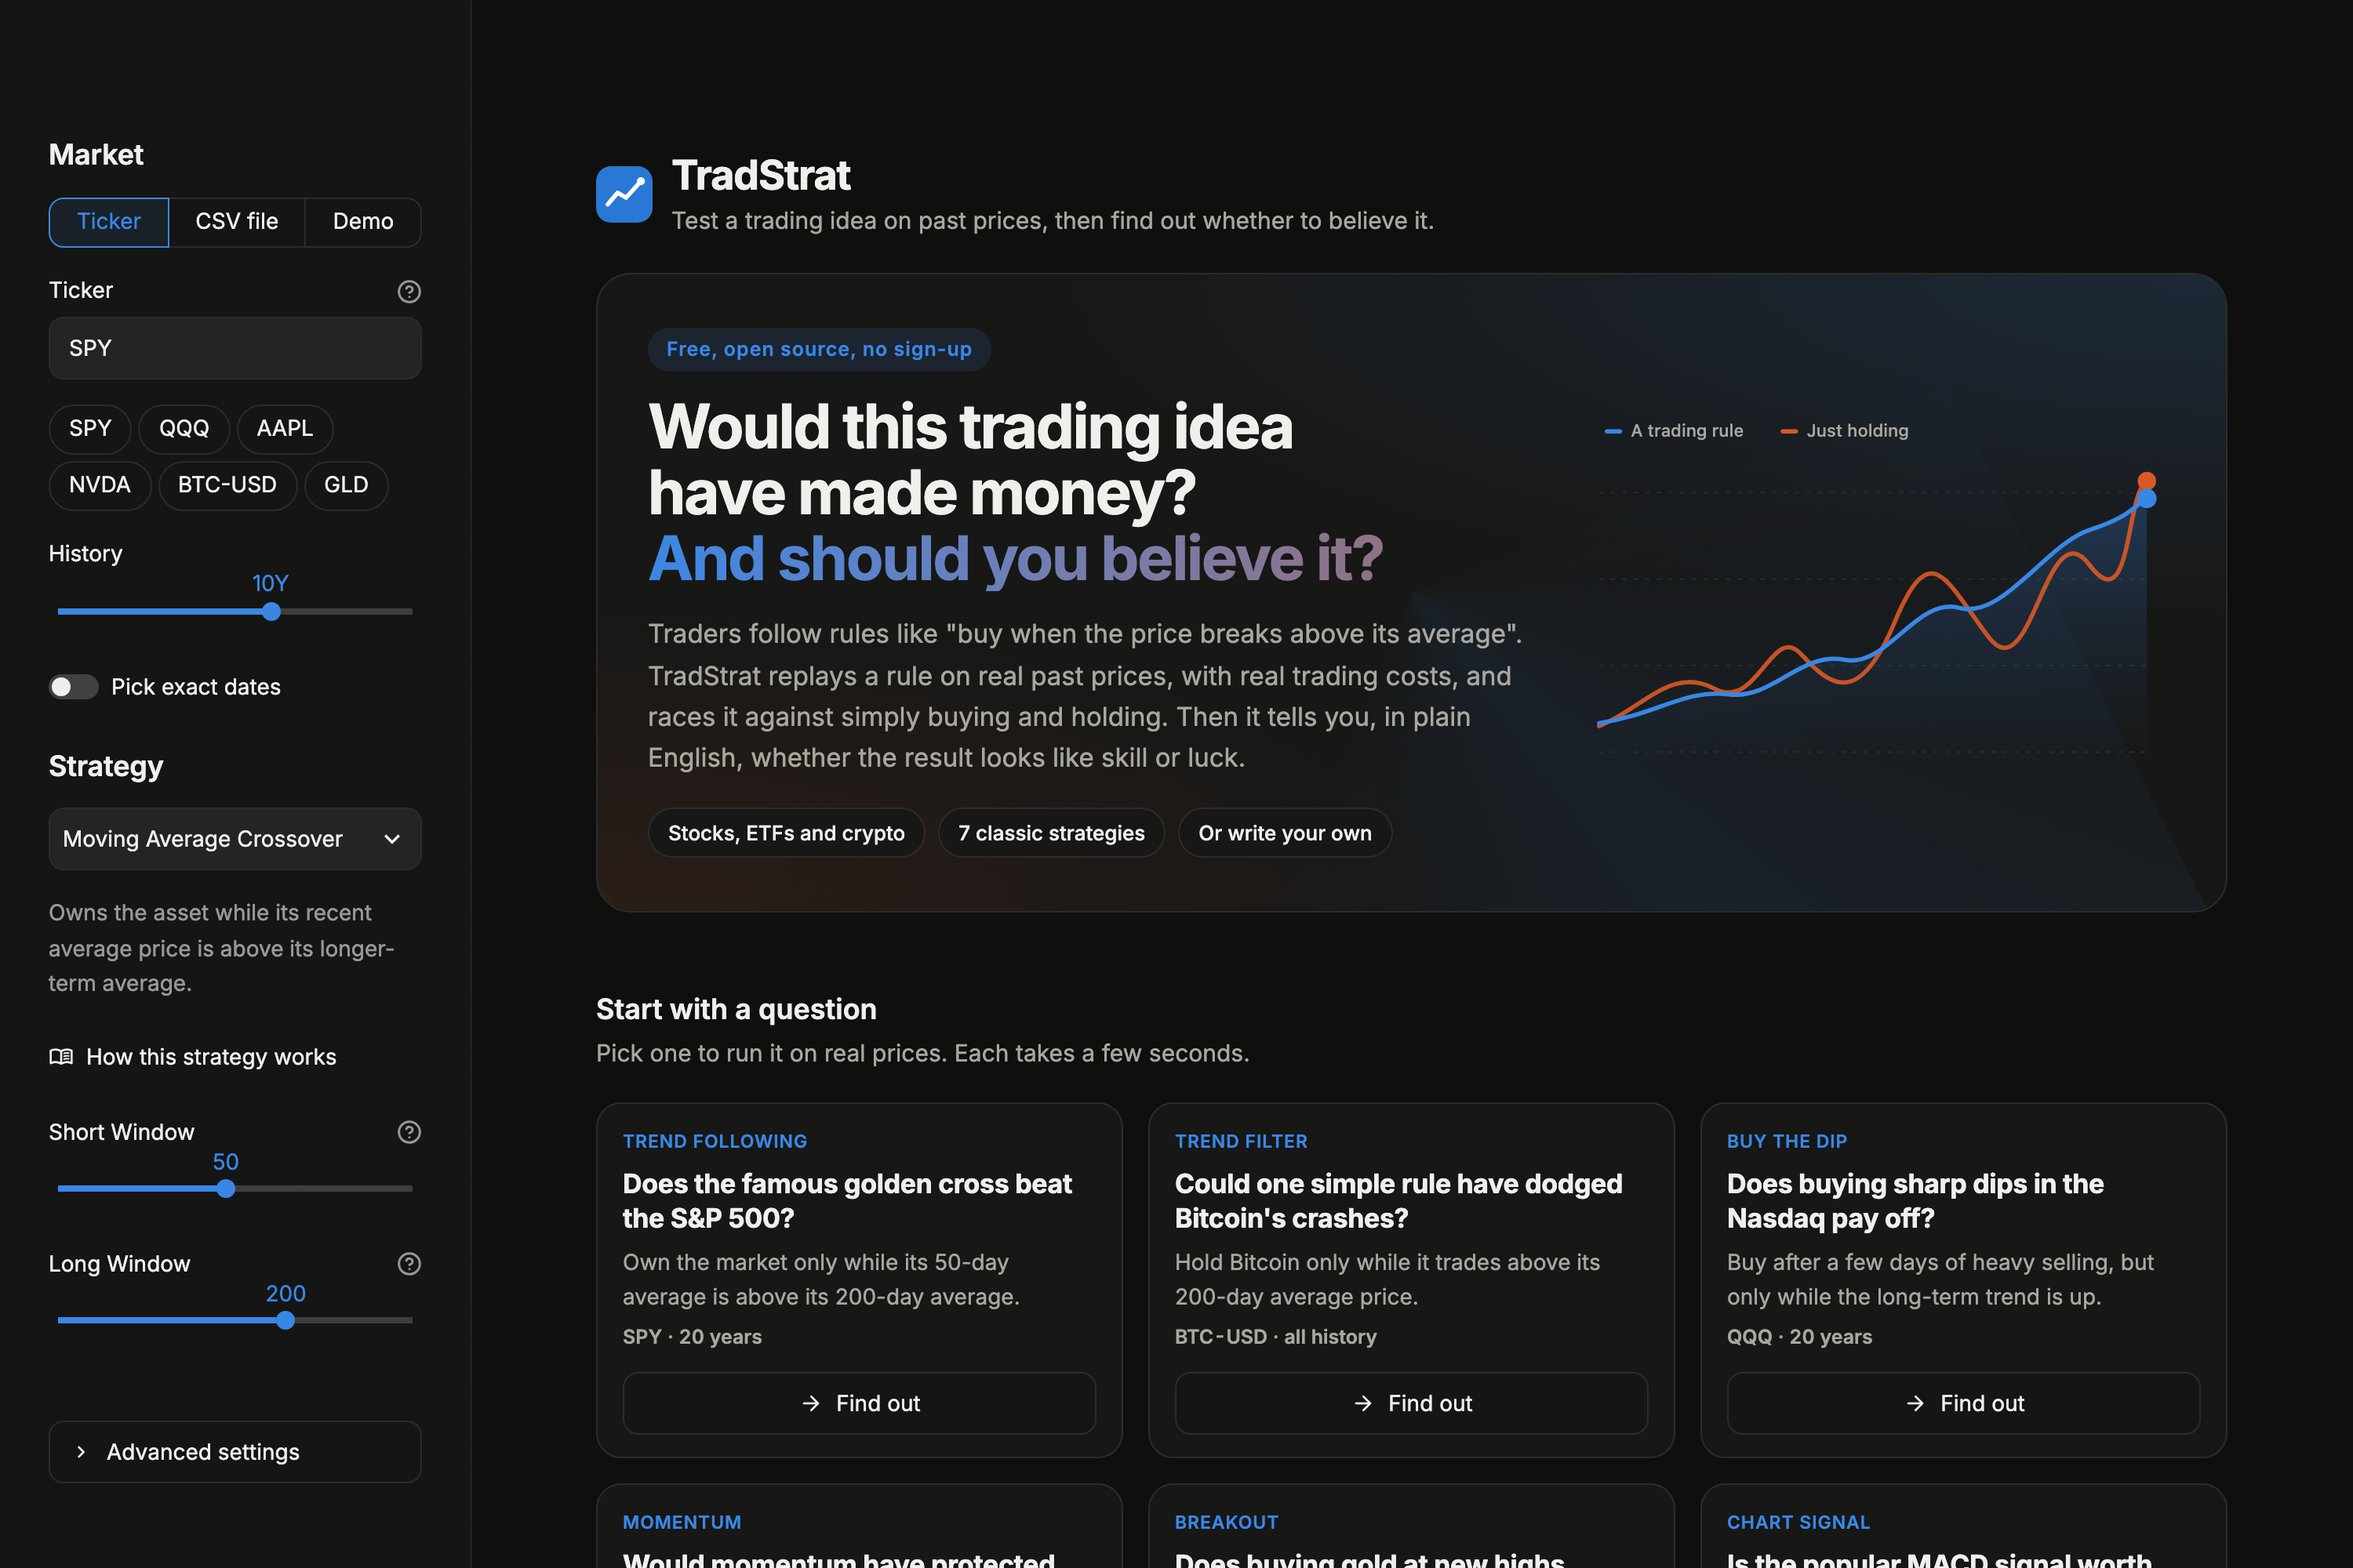
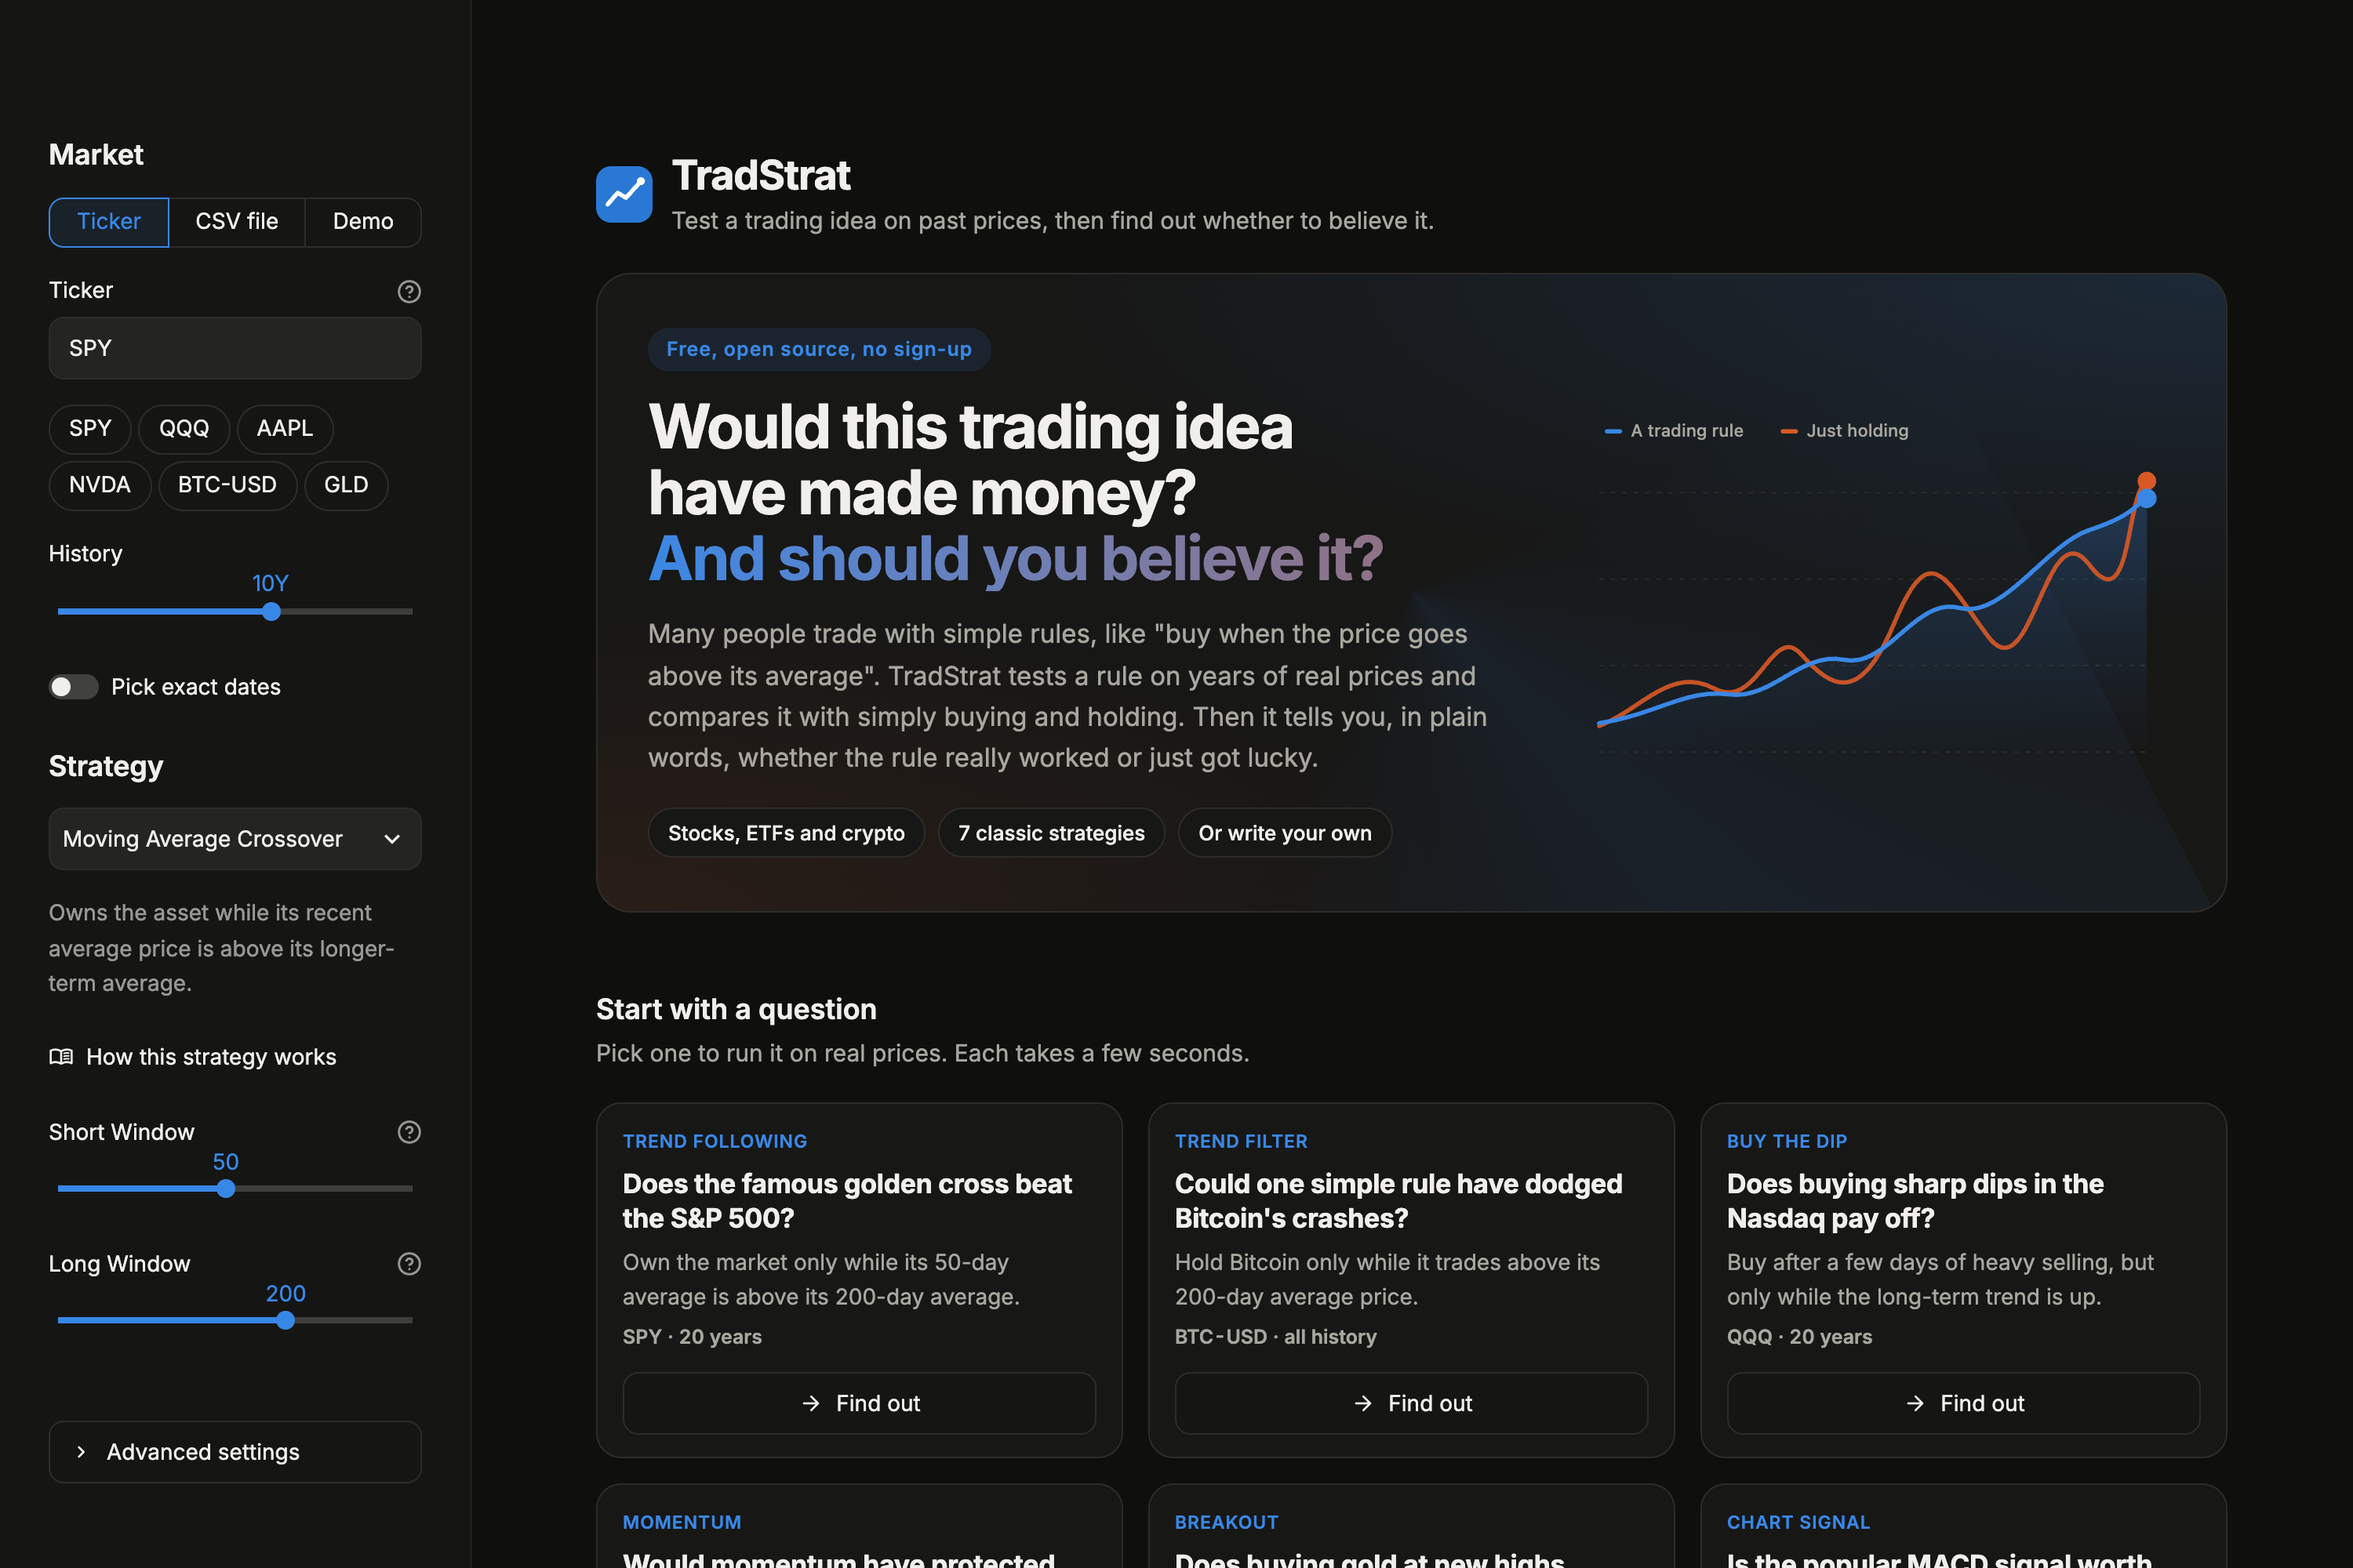
Explain in plain words what TradStrat is for, and how to put it online
The README now opens with what it is, why it was built and who it is for,
before any jargon, and gains a short guide to hosting it on Streamlit
Community Cloud or any container host. Screenshots show the new wording.

Changed region(s): [[0.279, 0.403, 0.651, 0.496]]

diff --git a/README.md b/README.md
@@ -13,10 +13,17 @@
 
 </div>
 
-Most backtesters tell you how much a strategy would have made. TradStrat also tells you whether that number
-means anything. It simulates trades the way a broker would fill them, compares every result with simply
-holding the asset, puts confidence intervals on the outcome, and measures how much of a tuned result came from
-fitting noise. Then it gives you the answer in plain English.
+**What it is.** A free website that tests a trading rule, such as *"buy when the price goes above its
+200-day average"*, on years of real prices. It compares the rule with simply buying and holding, and tells
+you in plain words whether the rule really worked or just got lucky.
+
+**Why I built it.** Most trading ideas look great on a chart and then lose real money, usually because of
+hidden trading costs, hindsight, or plain luck. Most backtesting tools only tell you how much a rule would
+have made. TradStrat also checks whether that number can be trusted, and explains the answer so that someone
+with no finance background can follow it.
+
+**Who it is for.** Anyone curious about whether a trading idea holds up, from first-time investors to
+people who build trading strategies.
 
 <picture>
   <source media="(prefers-color-scheme: dark)" srcset="docs/images/landing_dark.png">
@@ -80,8 +87,26 @@ tradstrat walk-forward --ticker IWM --strategy momentum --train-bars 756 --test-
 tradstrat list
 ```
 
-If Yahoo Finance is unavailable, use `--sample` or pick **Sample** in the dashboard. That dataset is
+If Yahoo Finance is unavailable, use `--sample` or pick **Demo** in the dashboard. That dataset is
 simulated, so results on it say nothing about real markets.
+
+## Put It Online
+
+**Streamlit Community Cloud (free).** Sign in at [share.streamlit.io](https://share.streamlit.io) with
+GitHub, choose this repository, set the main file to `app.py` and Python to 3.12, and deploy. It installs
+`requirements.txt` and reads the settings in `.streamlit/config.toml`.
+
+**Any host that runs containers**, such as Render, Fly.io or Google Cloud Run:
+
+```bash
+docker build -t tradstrat .
+docker run -p 8501:8501 tradstrat
+```
+
+The image runs as a non-root user, listens on `$PORT` when the host sets one, and reports its health at
+`/_stcore/health`. Public servers share one address for every visitor's requests to Yahoo Finance, so heavy
+use can hit Yahoo's rate limits. The dashboard then says so in plain words and offers the demo data, and
+every download is cached for an hour.
 
 ## What It Found
 

diff --git a/CHANGELOG.md b/CHANGELOG.md
@@ -40,6 +40,12 @@ All notable changes to TradStrat. The project follows [semantic versioning](http
 
 ### Changed
 
+- Ready to run as a public website: friendly messages instead of raw errors when prices can't be loaded,
+  with a one-click switch to demo data; size limits on every cache, rule and upload; no tracebacks shown to
+  visitors; and a Dockerfile with a health check.
+- Plain-language wording on the landing page and in the README: what TradStrat is, why it exists, and who
+  it is for.
+
 - The dashboard was redesigned around five tabs: Results, Trades, Tune, Compare and Guide. It leads with the
   verdict, keeps advanced settings in one place, uses plain labels such as "Chance the edge is real", and its
   charts follow the light or dark theme.
